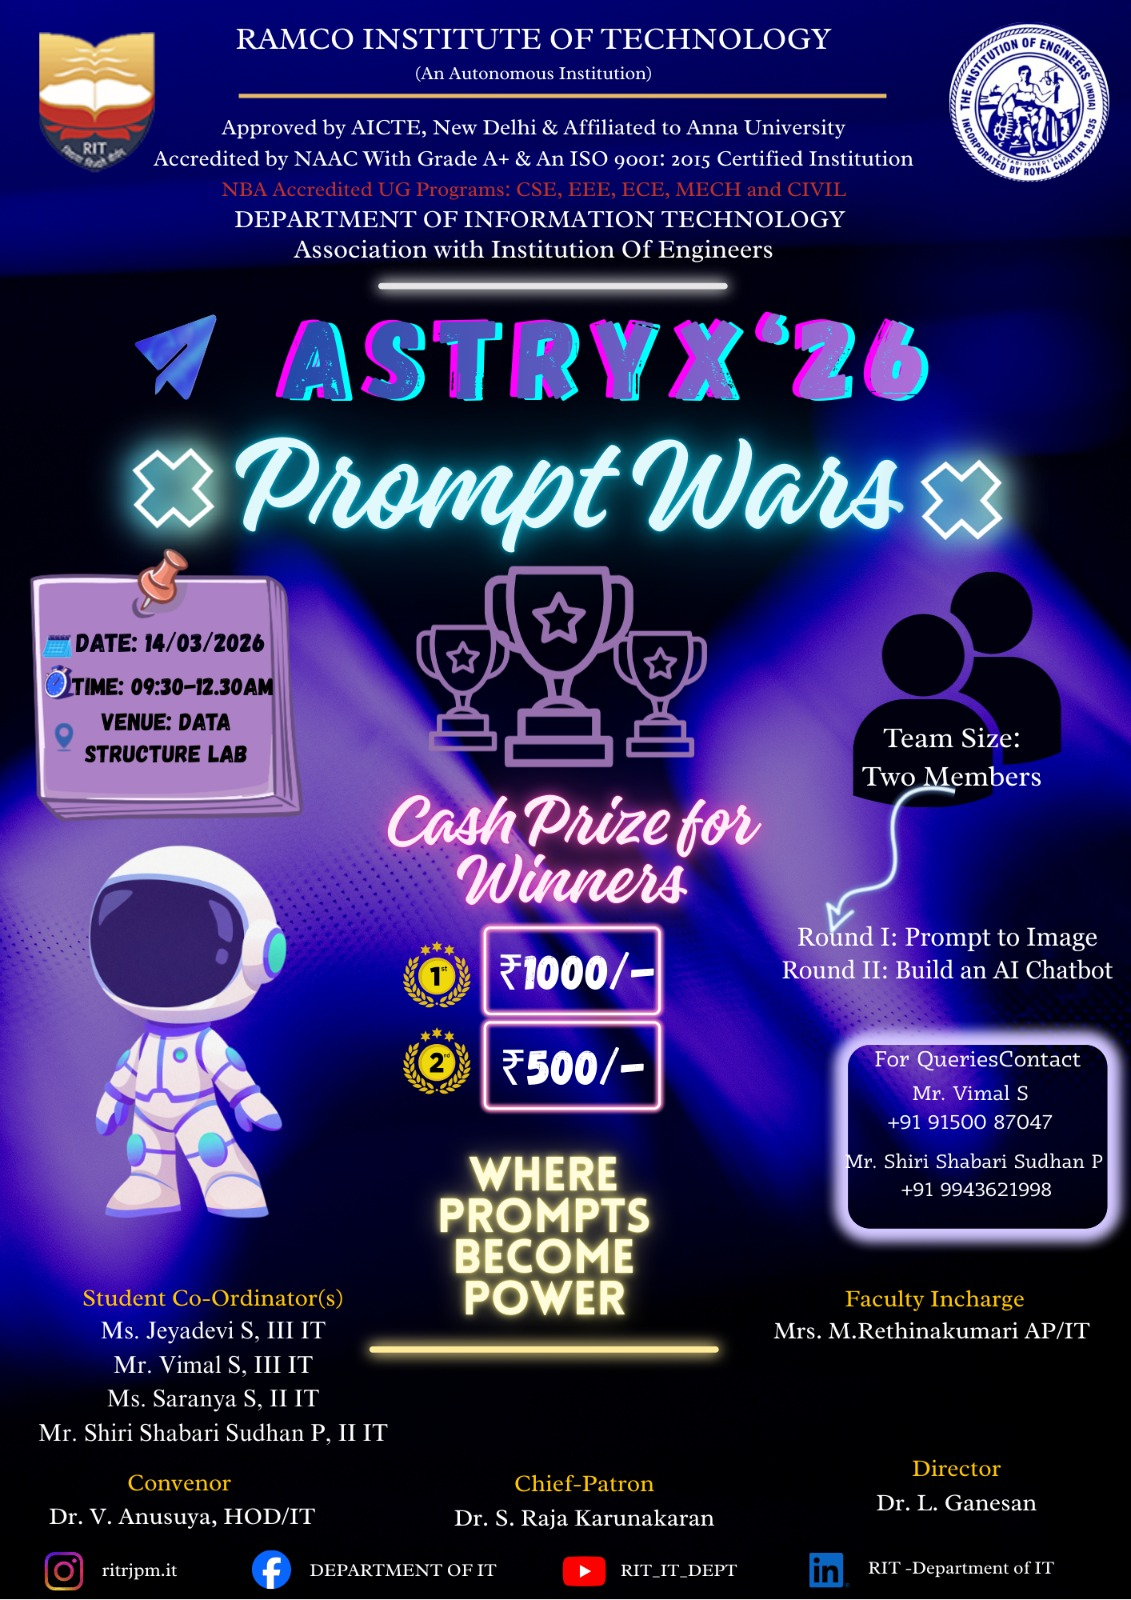
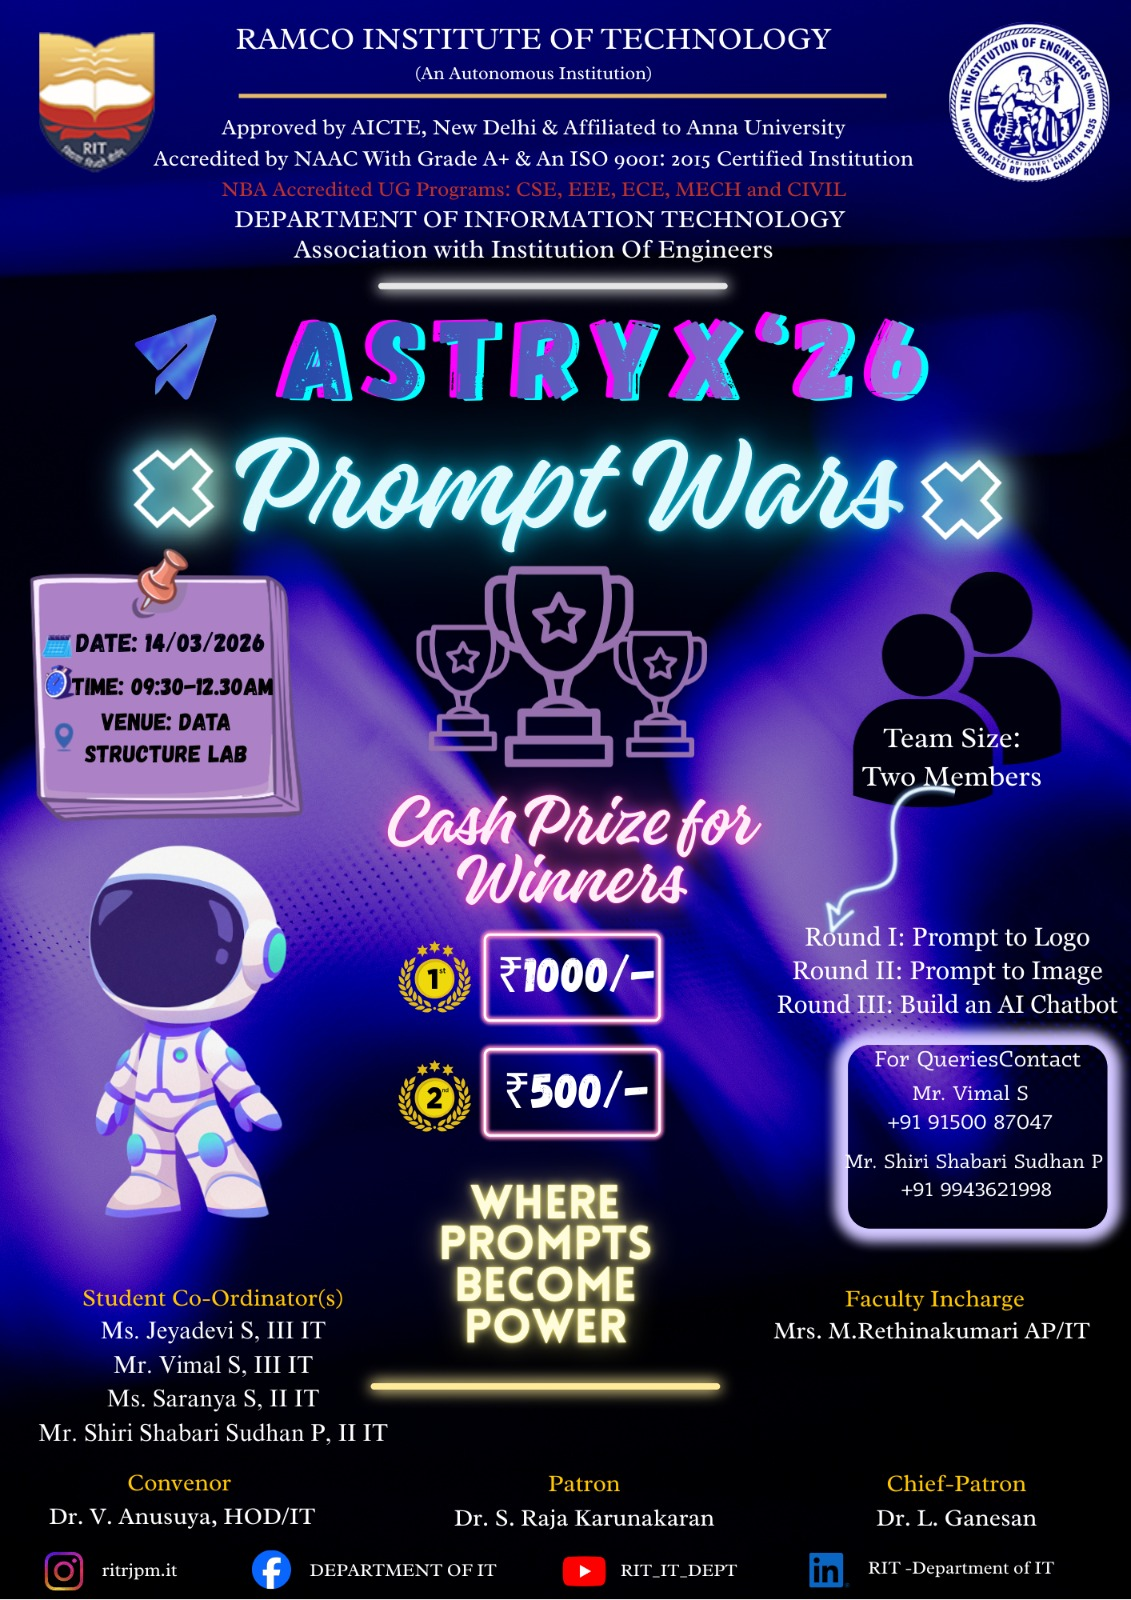
poster

diff --git a/src/EventDetails.js b/src/EventDetails.js
@@ -10,6 +10,7 @@ import techtraidImage from './assets/techtraid.jpeg';
 import promptwarsImage from './assets/promptwar.jpeg';
 import codearenaImage from './assets/codearena.jpeg';
 import themastroImage from './assets/themastero.jpeg';
+import mysterymanorImage from './assets/mysterymanor.jpeg';
 
 export default function EventDetails() {
   const { eventId } = useParams();
@@ -56,19 +57,19 @@ export default function EventDetails() {
     vibecoding: {
   title: "PROMPT WARS",
   date: "March 14, 2026",
-  time: "11:15 AM - 12:15 PM",
+  time: "9:30 AM - 12:30 PM",
   location: "Data Structure Lab",
   image: promptwarsImage,
-  about: "Prompt Wars is an AI-driven competitive event where participants battle using prompts to generate powerful and creative AI outputs, ranging from visual content to functional real-world applications. The event focuses on prompt engineering, creativity, and the effective use of AI tools in a fast-paced environment.\n\nRound 1 – Prompt to Image:\nParticipants generate an AI image based on a given theme or description such as Future Classroom or AI in Daily Life. Teams use AI image generation tools to create visually appealing outputs and submit their best result within the allotted time.\n\nRound 2 – Prompt to Website Clone:\nParticipants recreate a simple website landing page using AI-powered tools. The task involves replicating the layout, color scheme, and content of a given reference page, demonstrating the ability to convert prompts into structured web designs.\n\nRound 3 – Build an AI Chatbot:\nParticipants build a basic AI chatbot interface that can interact with users. Suggested chatbot ideas include a college help bot, product support bot, FAQ bot, or a fun conversational assistant. This round highlights practical application of AI in solving real-world communication needs.",
+  about: "Prompt Wars is an AI-powered competitive event where participants battle using creative and strategic prompts to generate impactful AI outputs. The event emphasizes prompt engineering, creativity, and real-world AI applications in a fast-paced challenge format.\n\nRound I – Prompt to Logo:\nParticipants generate a professional and creative logo using AI tools based on a given theme or brand description. This round tests creativity, clarity of prompts, and visual branding skills.\n\nRound II – Prompt to Image:\nParticipants create an AI-generated image from a provided theme or concept such as Future Technology or AI in Daily Life. The focus is on crafting effective prompts to produce visually appealing and meaningful images.\n\nRound III – Build an AI Chatbot:\nParticipants design a basic AI chatbot capable of interacting with users. Suggested ideas include a college assistant bot, FAQ bot, product support bot, or a fun conversational assistant, highlighting practical AI usage.",
   team: { size: "2 members" },
   coordinator: {
-    faculty: "Mrs.M.Rethinakumari",
+    faculty: "Mrs. M. Rethinakumari",
     student: "Jeyadevi S, Vimal S, Saranya S, Shri Shabari Sudhan P"
   },
   prize: [
     { place: "1st Place", amount: "₹ 1000 Cash Prize + Certificate" },
-    { place: "2nd Place", amount: "₹ 500 Cash Prize + Certificate" },
-    ]
+    { place: "2nd Place", amount: "₹ 500 Cash Prize + Certificate" }
+  ]
 },
     techtraid: {
   title: "TECH-TRAID",
@@ -111,7 +112,7 @@ export default function EventDetails() {
   date: "March 14, 2026",
   time: "Morning Session",
   location: "C2L01 & C2L02",
-  image: "https://tse1.mm.bing.net/th/id/OIP.Vtw9fF_Nh-HklnnWNRHbXQHaEY?pid=Api&h=220&P=0",
+  image: mysterymanorImage,
   about: "Mystery Manor is a non-technical detective game inspired by the legendary character Sherlock Holmes. The event challenges participants’ observation skills, logical reasoning, and problem-solving abilities in an engaging and mystery-filled environment.\n\nRound 1 – Crime Scene Chronicles:\nParticipants investigate a simulated crime scene by carefully observing clues, identifying key details, and gathering initial evidence.\n\nRound 2 – The Puzzle of Proofs:\nTeams analyze collected evidence, solve logical puzzles, and connect facts to strengthen their investigation and narrow down possibilities.\n\nRound 3 – The Final Verdict:\nFinalist teams present their conclusions, identify the culprit, and justify their reasoning based on evidence and logical deduction.",
   team: { size: "2–3 members" },
   coordinator: {
